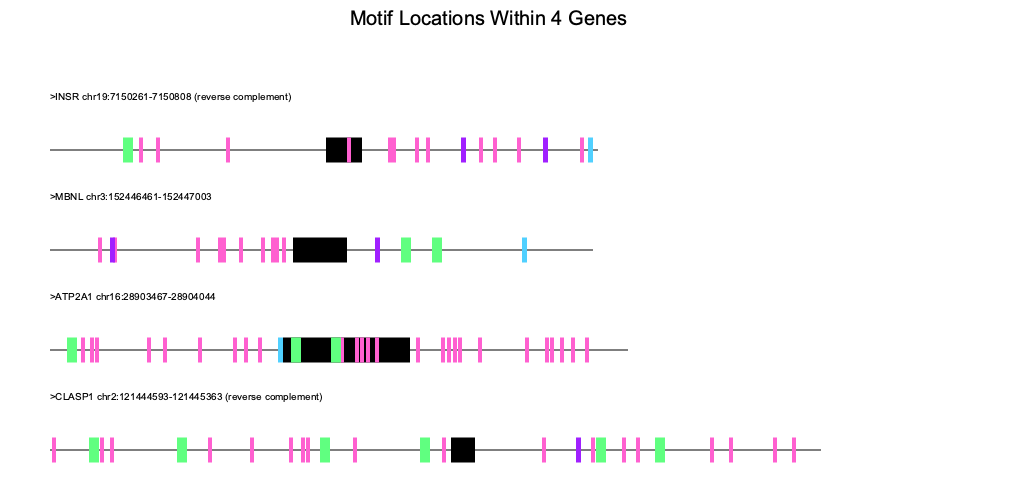
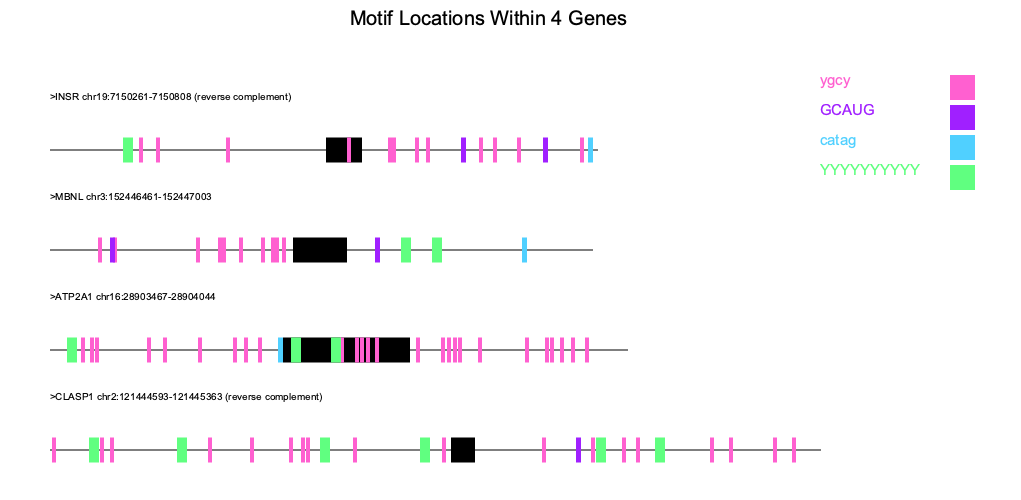
code and image completed maybe needs some cleaning

diff --git a/motif-mark-oop.py b/motif-mark-oop.py
@@ -8,13 +8,11 @@ def get_args():
     parser = argparse.ArgumentParser(description="test")
     parser.add_argument("-m", help="motif list file") #type: str
     parser.add_argument("-f", help="fasta file") #type: str
-    # parser.add_argument("-o", help="output fig prefex") #type: str
     return parser.parse_args()
 
 args = get_args()
 motif = args.m 
 fasta = args.f 
-# out_pic = args.o
 
 ####################
 # GLOBAL VARIABLES #
@@ -27,15 +25,15 @@ feature_height = 25
 #color list for drawing motifs: 
 # list of 5 tupols containg RGB values divided 255
 #pink, purple, light blue, green, orange
-COLOT_LIST = [(255/255, 96/255, 208/255),
+COLOR_LIST = [(255/255, 96/255, 208/255),
               (160/255, 32/255, 255/255),
               (80/255, 208/255, 255/255),
               (96/255, 255/255, 128/255),
               (255/255, 106/255, 16/255)]
 #motif variations dict key: given motif, value: regex motif
-motif_dict = {}
+MOTIF_DICT = {}
 #key: given letter value: regex possible letters for motifs
-iupac ={
+IUPAC_DICT ={
     "U":"[TU]",
     "W":"[ATU]",
     "S":"[CG]",
@@ -62,13 +60,18 @@ class Motif:
         self.color = color
     #draw motif
     def draw(self, context):
-        context.set_source_rgb(self.color[0], self.color[1], self.color[2])        #set color to black
+        context.set_source_rgb(self.color[0], self.color[1], self.color[2])       #set color to color list
         y = (gene_num*100) + 137.5
         x = self.start + 50
         length = self.length
         height = feature_height
         context.rectangle(x,y,length,height)
         context.fill()
+    
+    # def legend(self, context):
+    #     context.set_source_rgb = (Motif.draw)
+
+
 
 class Gene: 
     def __init__(self, length, gene_name, gene_number):
@@ -117,11 +120,10 @@ class Exon:
 #def find and replace the regex expressions of the
 def reg_ex_replace(motif) -> str: 
     '''Takes in motif and outputs seq containing possible variations in regex'''
-    # print(motif)
     motif = motif.upper()
     for char in motif: 
-        if char in iupac:
-            motif = motif.replace(char, iupac[char])
+        if char in IUPAC_DICT:
+            motif = motif.replace(char, IUPAC_DICT[char])
     return(motif)
 
 #function to find the exon start and length
@@ -146,12 +148,9 @@ with (open(fasta, "r") as fasta_file,
     #OPEN MOTIF FILE AND POP MOTIF DICT
     for motif in motif_file: 
         motif = motif.strip()
-        # print(motif)
         new_motif = reg_ex_replace(motif)
-        # print(new_motif)
-        motif_dict[motif] = new_motif
-    # print(motif_dict)
-    #
+        MOTIF_DICT[motif] = new_motif
+
     for line in fasta_file: 
         #set the header and seq variables equal to the header and seq of that record 
         if line.startswith(">"):
@@ -171,7 +170,6 @@ for header in fasta_dict:
     if len(fasta_dict[header]) > length:
         length = len(fasta_dict[header]) 
 length += 250
-# print(f"the length of the canvaas is:{length}\n the height is {height}")
 
 #set the coordinates of the canvas
 surface = cairo.ImageSurface(cairo.FORMAT_ARGB32, length, height)
@@ -179,16 +177,6 @@ surface = cairo.ImageSurface(cairo.FORMAT_ARGB32, length, height)
 context = cairo.Context(surface)
 context.set_source_rgb(1,1,1)
 context.paint()
-
-# TITLE: 
-title_height = 25
-context.set_source_rgb(0,0,0)
-context.select_font_face("Arial", cairo.FONT_SLANT_NORMAL, cairo.FONT_WEIGHT_NORMAL)
-context.set_font_size(20)
-context.move_to(350, title_height)
-context.show_text("Motif Locations Within 4 Genes")
-
-#LEGEND:
 
 
 ################################
@@ -215,25 +203,42 @@ for i, header in enumerate(fasta_dict):
     #ITERATE THROUGH FASTA SEQ TO FIND MOTIFS: 
     #MAKE SEQ ALL UPPER CASE:
     seq = fasta_dict[header].upper()
-    # print(seq)
-    for j, motif in enumerate(motif_dict):
-        # print(motif_dict[motif])
-        matches = re.finditer(motif_dict[motif],seq)
+    for j, motif in enumerate(MOTIF_DICT):
+        matches = re.finditer(MOTIF_DICT[motif],seq)
         for match in matches:
-            # print(match.start(), match.group())
-            # motif_name = motif
             start = match.start()
             length = len(match.group())
             gene_number = i
-            motif = Motif(start, length, gene_number, COLOT_LIST[j])
+            motif = Motif(start, length, gene_number, COLOR_LIST[j])
             motif.draw(context)
-            # print(motif)
 
+#########################
+# CREATE TITLE + LEGEND #
+#########################
 
+# TITLE: 
+title_height = 25
+context.set_source_rgb(0,0,0)
+context.select_font_face("Arial", cairo.FONT_SLANT_NORMAL, cairo.FONT_WEIGHT_NORMAL)
+context.set_font_size(20)
+context.move_to(350, title_height)
+context.show_text("Motif Locations Within 4 Genes")
 
-
-
-#add legend and title 
+#LEGEND:
+# for motif in motif_dict:
+for j, motif in enumerate(MOTIF_DICT):
+    context.set_source_rgb(COLOR_LIST[j][0], COLOR_LIST[j][1], COLOR_LIST[j][2])
+    y = j*30 + 75
+    x = 950
+    length = 25
+    height = feature_height
+    context.rectangle(x,y,length,height)
+    context.fill()
+    title_height = y+10
+    context.select_font_face("Arial", cairo.FONT_SLANT_NORMAL, cairo.FONT_WEIGHT_NORMAL)
+    context.set_font_size(15)
+    context.move_to(820, title_height)
+    context.show_text(motif)
 
 #save to png 
 name = fasta.split(".")
